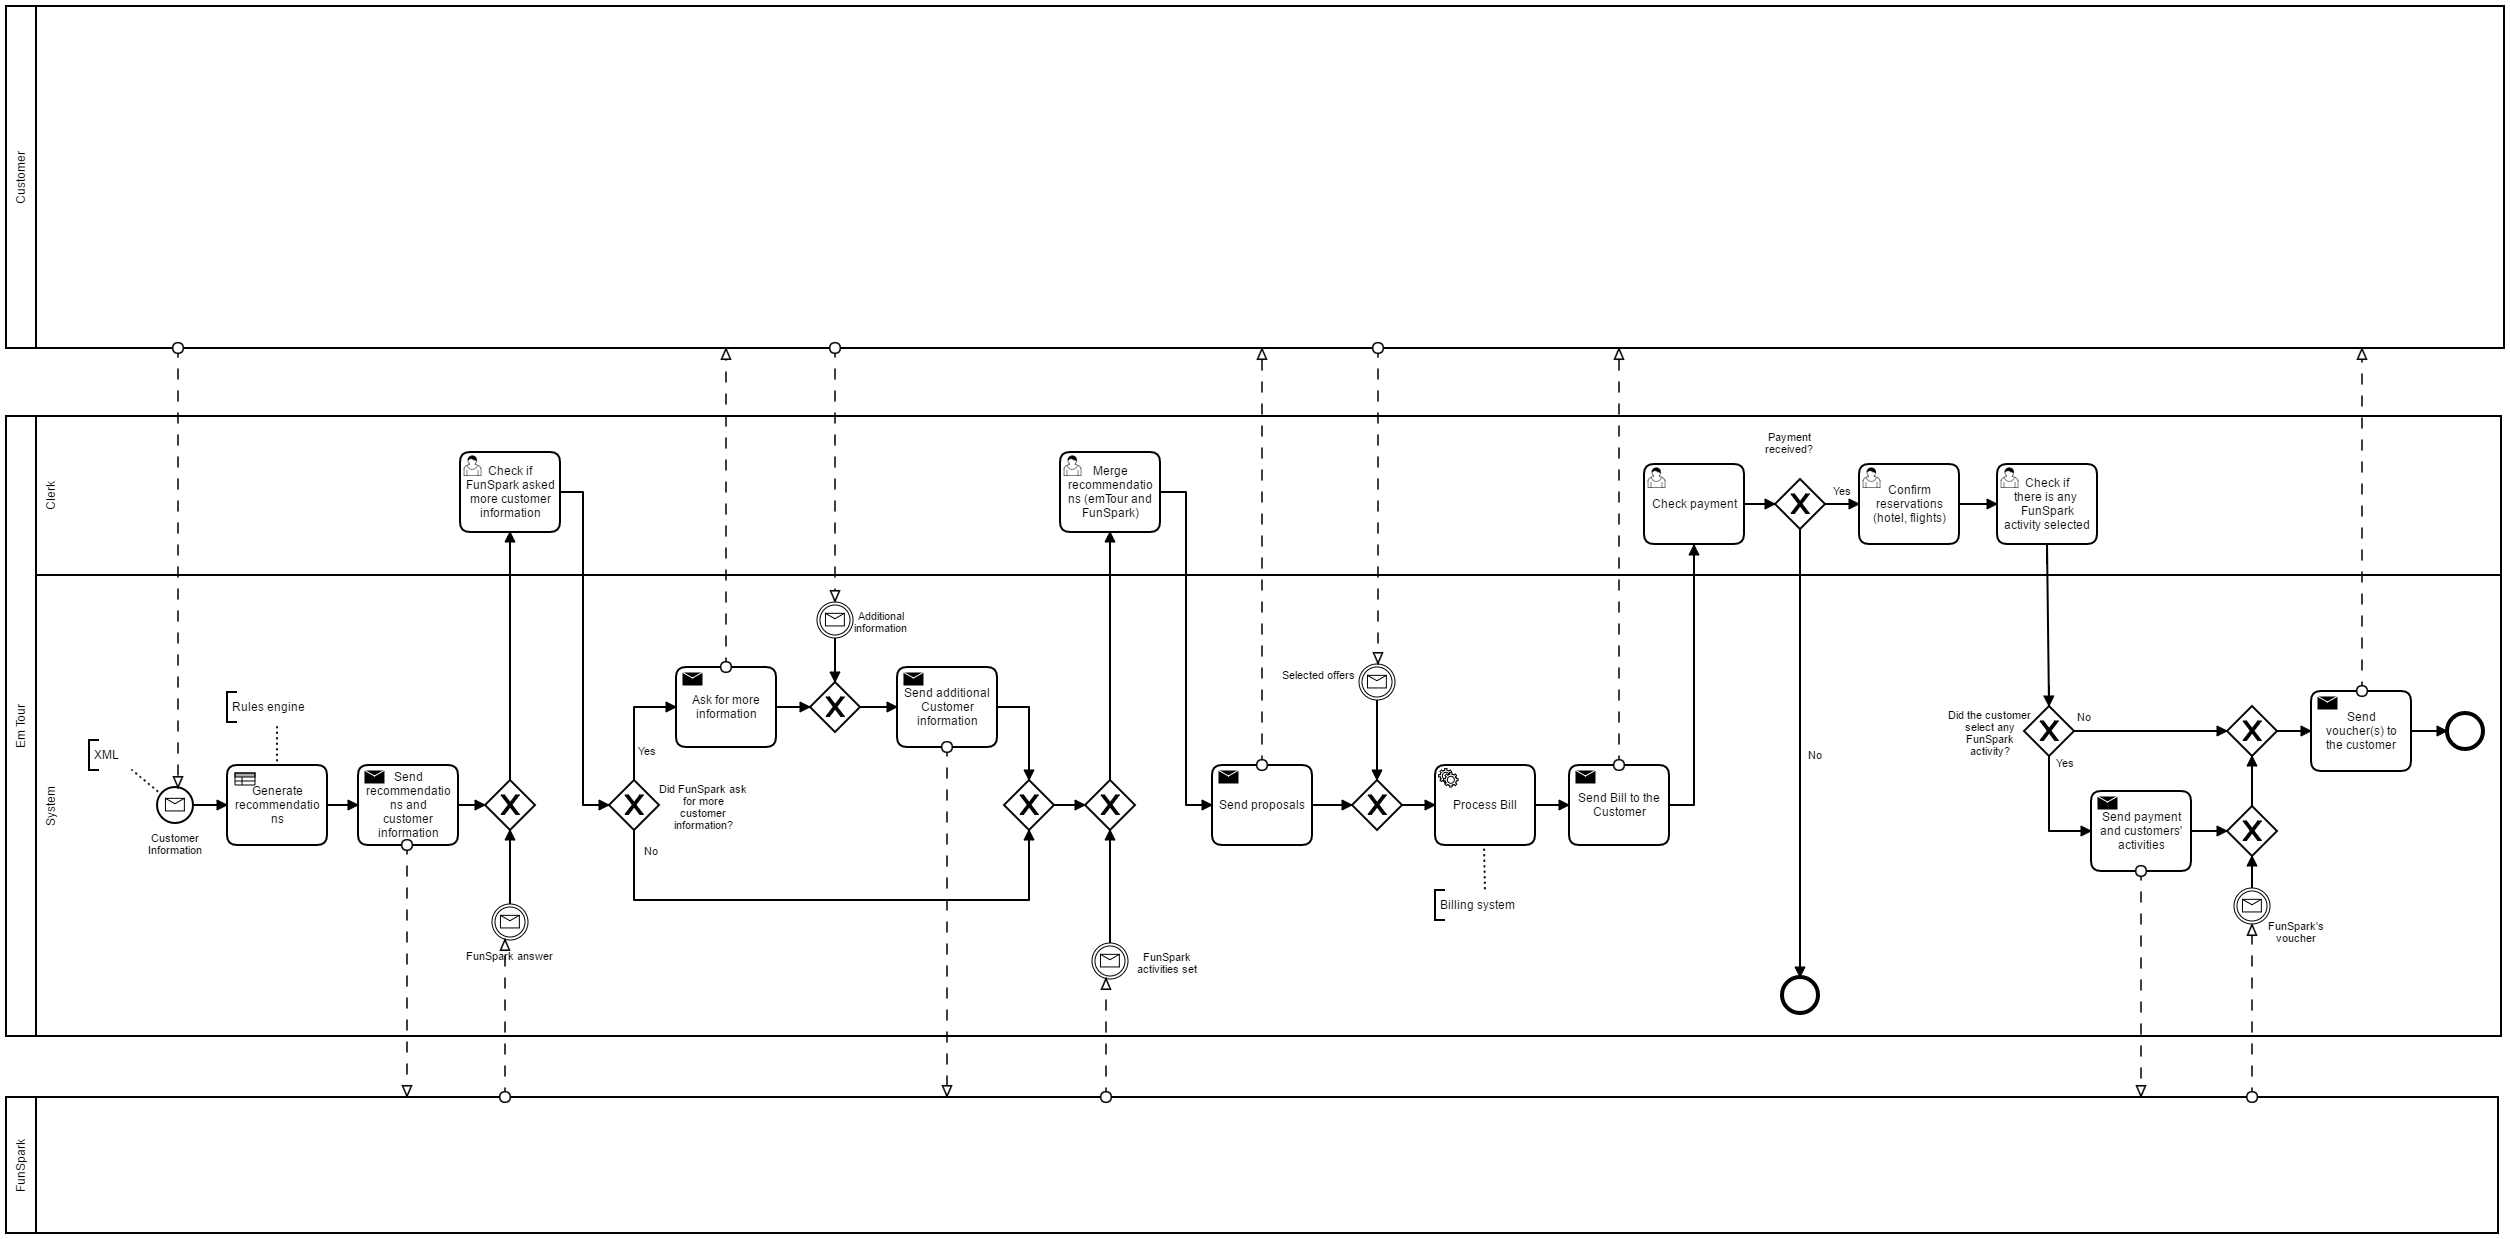
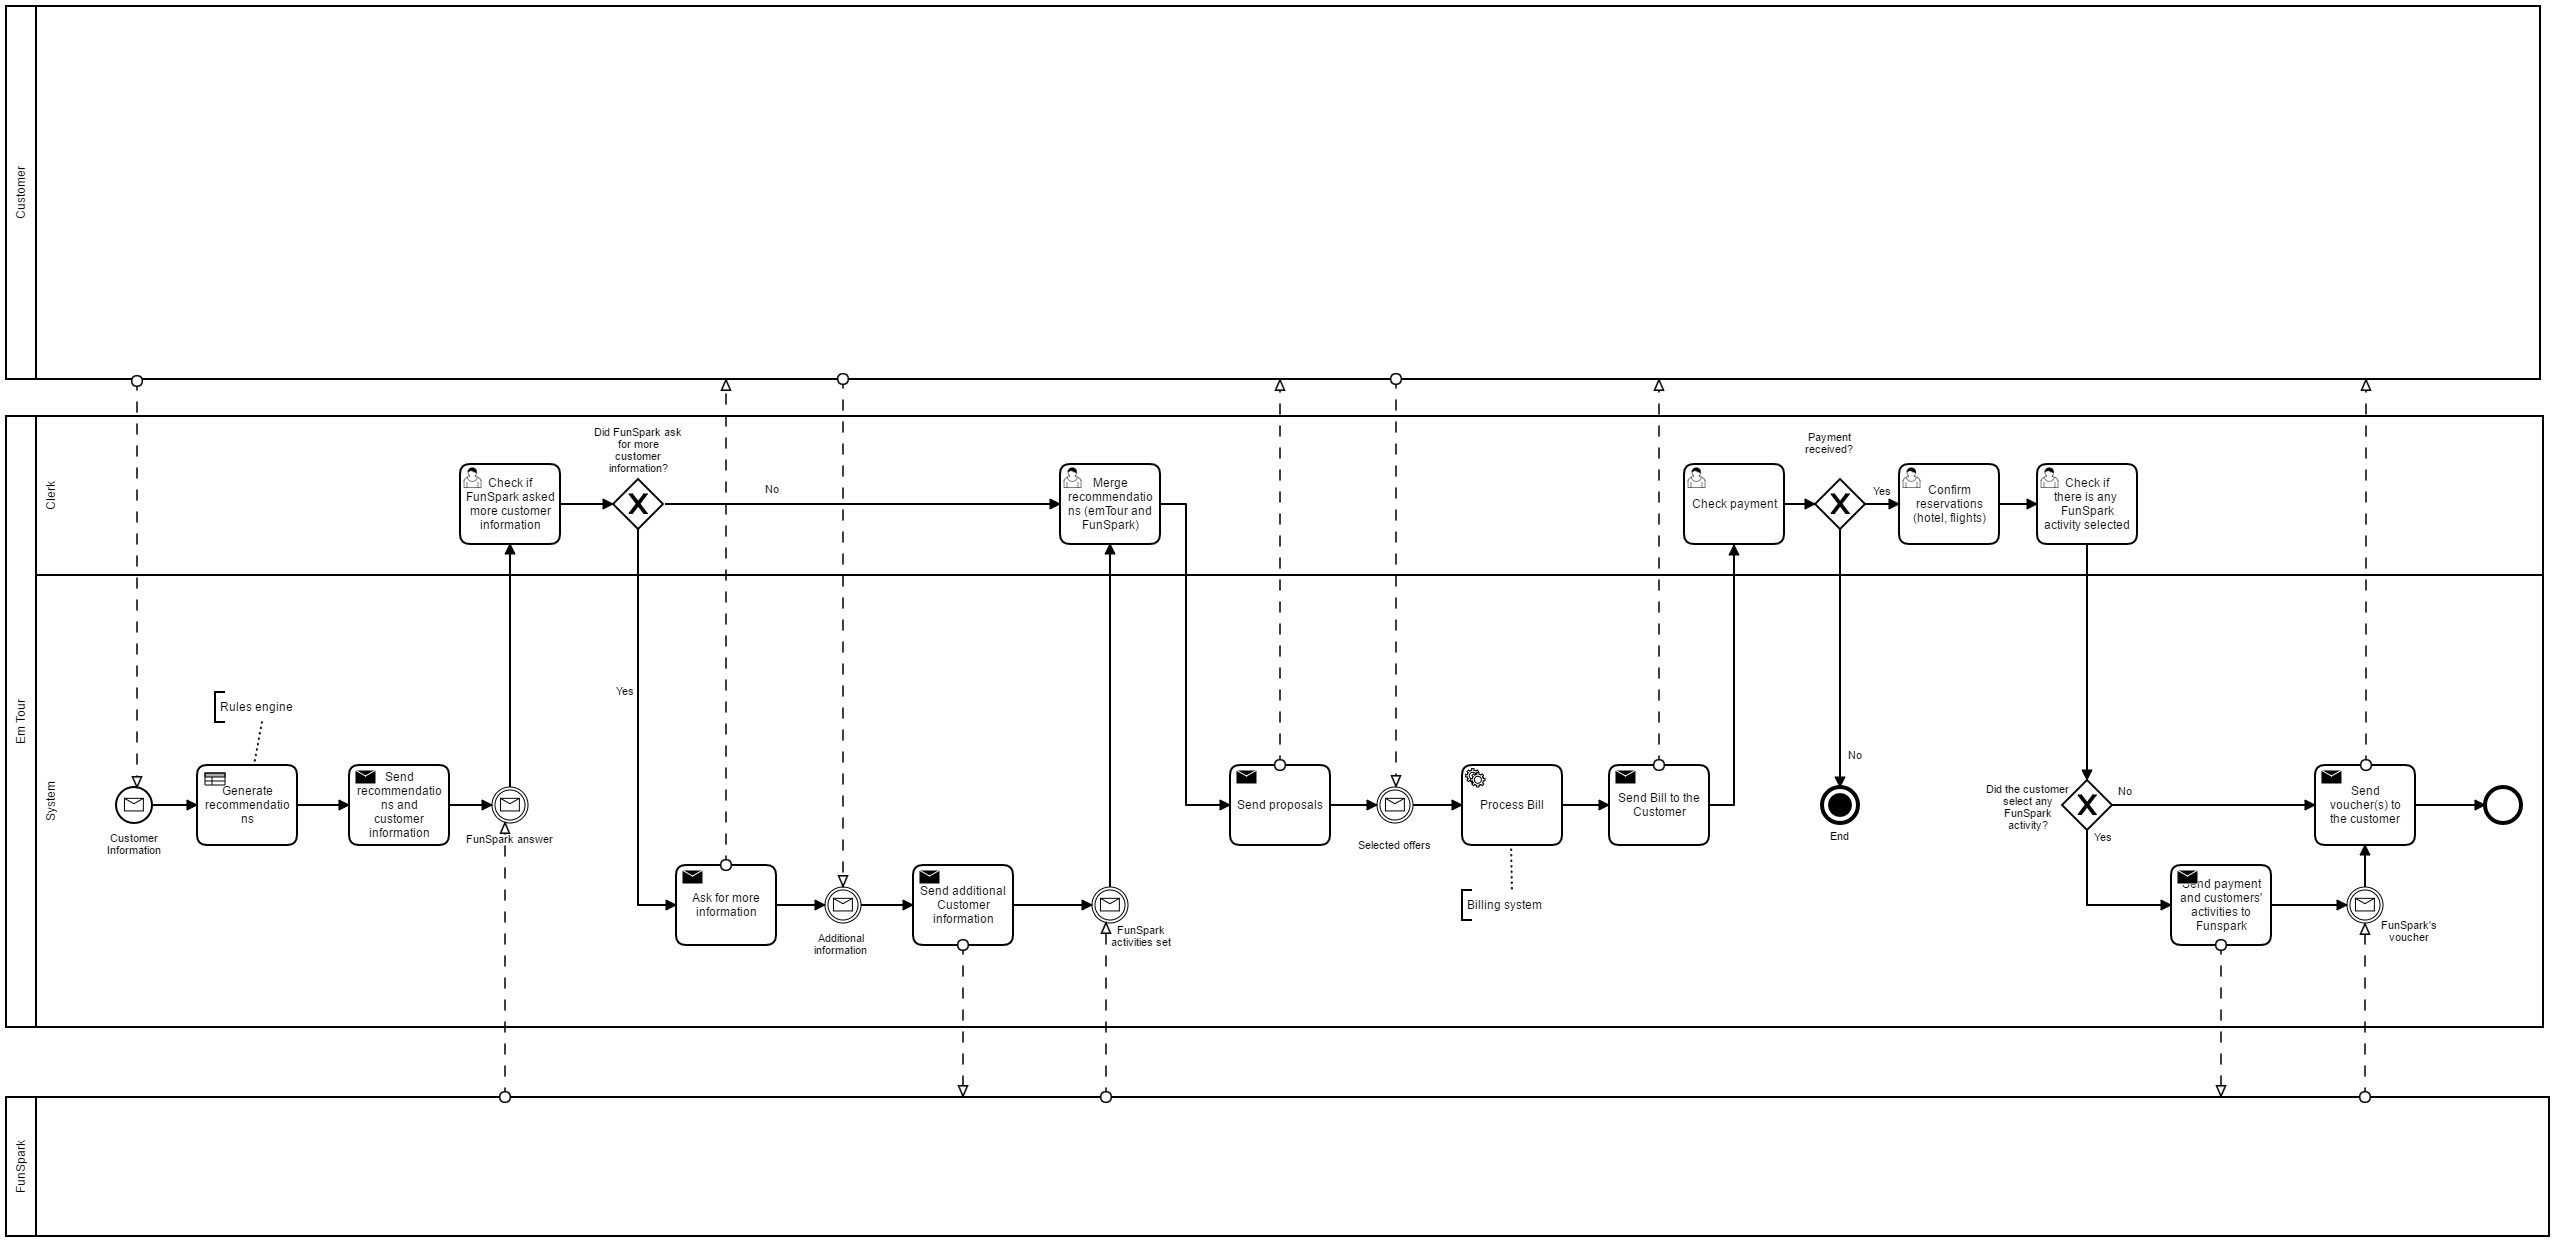
messages done, waiting for the others finish their tasks

diff --git a/emtour/src/main/java/de/wwu/wfm/group12/emtour/SendPayment.java b/emtour/src/main/java/de/wwu/wfm/group12/emtour/SendPayment.java
@@ -1,5 +1,8 @@
 package de.wwu.wfm.group12.emtour;
 
+import java.io.BufferedReader;
+import java.io.ByteArrayInputStream;
+import java.io.InputStreamReader;
 import java.util.logging.Logger;
 
 import javax.ejb.Stateless;
@@ -7,13 +10,51 @@ import javax.inject.Named;
 
 import org.camunda.bpm.engine.delegate.DelegateExecution;
 import org.camunda.bpm.engine.delegate.JavaDelegate;
+import org.jboss.resteasy.client.ClientRequest;
+import org.jboss.resteasy.client.ClientResponse;
 
 public class SendPayment implements JavaDelegate {
-	 private final static Logger LOGGER = Logger.getLogger("RECOMMENDATIONS-REQUESTS");
+	 private final static Logger LOGGER = Logger.getLogger("SEND-PAYMENT");
 
 	  public void execute(DelegateExecution execution) throws Exception {
 	    LOGGER.info("Send Payment '" 
-	    		+ execution.getVariable("name") + "' age: '"
-	    		+ execution.getVariable("age") + "'...");
+	    		+ execution.getVariable("name") + "' customerId: '"
+	    		+ execution.getVariable("customerId") + "'...");
+	    
+	    String input;
+		ClientRequest request = new ClientRequest("http://192.168.1.30:8080/engine-rest/message");
+		request.accept("application/json");
+		
+		input = "{\"messageName\":\"payment_confirmation\","
+				+ "\"correlationKeys\":{ "
+						+ "\"customerId\":{\"value\":\""+execution.getVariable("customerId")+"\", \"type\": \"String\"}"											
+					+ "},"
+				+ "\"processVariables\":{ "
+						+ "\"payment_status\":{\"value\":\""+execution.getVariable("payment_status")+"\", \"type\": \"Boolean\"},"
+						+ "\"funspark_banktransfer_code\":{\"value\":\""+execution.getVariable("funspark_banktransfer_code")+"\", \"type\": \"String\"},"
+						+ "\"funspark_selected_activities\":{\"value\":\""+execution.getVariable("funspark_selected_activities")+"\", \"type\": \"String\"}"
+					+ "}"
+				+"}";
+		
+		System.out.println(input);
+		request.body("application/json", input);
+
+		ClientResponse<String> response = request.post(String.class);
+
+		if (response.getStatus() != 204) {
+			
+			BufferedReader br = new BufferedReader(new InputStreamReader(
+					new ByteArrayInputStream(response.getEntity().getBytes())));	
+			
+			String output;
+			System.out.println("Output from Server. Status: ");
+			while ((output = br.readLine()) != null) {
+				System.out.println(output);
+			}
+			throw new RuntimeException("Failed : HTTP error code : " + response.getStatus());
+		}
+		else System.out.println("Output from Server. Status: "+response.getStatus());		
+  
+	    
 	  }
 }

diff --git a/emtour/src/main/java/de/wwu/wfm/group12/emtour/SendCustomerInfo.java b/emtour/src/main/java/de/wwu/wfm/group12/emtour/SendCustomerInfo.java
@@ -1,5 +1,8 @@
 package de.wwu.wfm.group12.emtour;
 
+import java.io.BufferedReader;
+import java.io.ByteArrayInputStream;
+import java.io.InputStreamReader;
 import java.util.logging.Logger;
 
 import javax.ejb.Stateless;
@@ -7,13 +10,52 @@ import javax.inject.Named;
 
 import org.camunda.bpm.engine.delegate.DelegateExecution;
 import org.camunda.bpm.engine.delegate.JavaDelegate;
+import org.jboss.resteasy.client.ClientRequest;
+import org.jboss.resteasy.client.ClientResponse;
 
 public class SendCustomerInfo implements JavaDelegate{
-	 private final static Logger LOGGER = Logger.getLogger("RECOMMENDATIONS-REQUESTS");
+	 private final static Logger LOGGER = Logger.getLogger("SEND-CUSTOMER-INFO");
 
 	  public void execute(DelegateExecution execution) throws Exception {
 	    LOGGER.info("Send Customer Information '" 
-	    		+ execution.getVariable("name") + "' age: '"
-	    		+ execution.getVariable("age") + "'...");
+	    		+ execution.getVariable("name") + "' customerId: '"
+	    		+ execution.getVariable("customerId") + "'...");
+		
+	    
+	    String input;
+		ClientRequest request = new ClientRequest("http://192.168.1.30:8080/engine-rest/message");
+		request.accept("application/json");
+		
+		input = "{\"messageName\":\"more_info_result\","
+				+ "\"correlationKeys\":{ "
+						+ "\"customerId\":{\"value\":\""+execution.getVariable("customerId")+"\", \"type\": \"String\"}"											
+					+ "},"
+				+ "\"processVariables\":{ "
+						+ "\"more_info\":{\"value\":\""+execution.getVariable("more_info")+"\", \"type\": \"Boolean\"},"
+						+ "\"customer_info_updated\":{\"value\":\""+execution.getVariable("customer_info_updated")+"\", \"type\": \"String\"}"						
+					+ "}"
+				+"}";
+		
+		System.out.println(input);
+		request.body("application/json", input);
+
+		ClientResponse<String> response = request.post(String.class);
+
+		if (response.getStatus() != 204) {
+			
+			BufferedReader br = new BufferedReader(new InputStreamReader(
+					new ByteArrayInputStream(response.getEntity().getBytes())));	
+			
+			String output;
+			System.out.println("Output from Server. Status: ");
+			while ((output = br.readLine()) != null) {
+				System.out.println(output);
+			}
+			throw new RuntimeException("Failed : HTTP error code : " + response.getStatus());
+		}
+		else System.out.println("Output from Server. Status: "+response.getStatus());		
+  
+	    
+	    
 	  }
 }

diff --git a/emtour/src/main/java/de/wwu/wfm/group12/emtour/SendRecommendation.java b/emtour/src/main/java/de/wwu/wfm/group12/emtour/SendRecommendation.java
@@ -13,17 +13,17 @@ import org.jboss.resteasy.client.ClientResponse;
 
 
 public class SendRecommendation implements JavaDelegate {
-	private final static Logger LOGGER = Logger.getLogger("RECOMMENDATIONS-REQUESTS");
+	private final static Logger LOGGER = Logger.getLogger("SEND-RECOMMENDATIONS");
 
 	public void execute(DelegateExecution execution) throws Exception {
-		LOGGER.info("Send Recommendations '" + execution.getVariable("name") + "' country: '"
-				+ execution.getVariable("country") + "'...");
+		LOGGER.info("Send Recommendations '" + execution.getVariable("name") + "' desired City: '"
+				+ execution.getVariable("desiredCity") + "'...");
 
 		// create db record with customer info and return customerID
 		CustomerDatabase cdb = new CustomerDatabase();
 		cdb.createCustomerDbRecord(execution);
 		String customerId = cdb.lastCustomerId();
-		
+		execution.setVariable("customerId", customerId);
 		
 		// RESTeasy Jboss API to send recommendations to Funspark
 				
@@ -32,9 +32,11 @@ public class SendRecommendation implements JavaDelegate {
 		request.accept("application/json");
 		
 		input = "{\"variables\":{ "
-				+ "\"name\":{\"value\":\""+execution.getVariable("name")+"\", \"type\": \"String\"},"				
-				+ "\"desiredCity\":{\"value\":\""+execution.getVariable("desiredCity")+"\", \"type\": \"String\"}},"
-				+ "\"businessKey\":\""+execution.getId()+"\"}";
+					+ "\"customerId\":{\"value\":\""+customerId+"\", \"type\": \"String\"},"
+					+ "\"name\":{\"value\":\""+execution.getVariable("name")+"\", \"type\": \"String\"},"				
+					+ "\"desiredCity\":{\"value\":\""+execution.getVariable("desiredCity")+"\", \"type\": \"String\"}"
+					+"}"
+				+ "}";
 		
 		System.out.println(input);
 		request.body("application/json", input);

diff --git a/emtour/src/main/java/de/wwu/wfm/group12/emtour/ProcessBill.java b/emtour/src/main/java/de/wwu/wfm/group12/emtour/ProcessBill.java
@@ -7,10 +7,10 @@ import org.camunda.bpm.engine.delegate.JavaDelegate;
 
 public class ProcessBill implements JavaDelegate {
 	
-	 private final static Logger LOGGER = Logger.getLogger("RECOMMENDATIONS-REQUESTS");
+	 private final static Logger LOGGER = Logger.getLogger("PROCESS-BILL");
 
 	  public void execute(DelegateExecution execution) throws Exception {
-	    	    
+	   /* 	    
 	   int activitySetPrice = 100;
 	   int bill;
 	   
@@ -23,11 +23,12 @@ public class ProcessBill implements JavaDelegate {
 	// Generate bill depending on client's budget & activity set price provided from FunSpark
 	   bill = budget * adult + (budget/2) * children + activitySetPrice;  
 	   
-	   System.out.println("Total Bill is: " + bill + " Persons: " + String.valueOf(adult +children) + " Country: " + execution.getVariable("country"));
-	   
-	  /* LOGGER.info("Total Bill is:'" 
-	    		+ bill + "' Country: '"
-	    		+ execution.getVariable("country") + "'");*/
+	   System.out.println("Total Bill is: " + bill + " Persons: " + String.valueOf(adult +children) + " City: " + execution.getVariable("desiredCity"));
+	   */
+	  
+	   LOGGER.info("Offers: '" 
+	    		+ execution.getVariable("offers") + "' City: '"
+	    		+ execution.getVariable("desiredCity") + "'");
 	   
 	  }
 }

diff --git a/emtour/src/main/java/de/wwu/wfm/group12/emtour/SendVoucher.java b/emtour/src/main/java/de/wwu/wfm/group12/emtour/SendVoucher.java
@@ -9,12 +9,15 @@ import org.camunda.bpm.engine.delegate.DelegateExecution;
 import org.camunda.bpm.engine.delegate.JavaDelegate;
 
 public class SendVoucher implements JavaDelegate {
-	 private final static Logger LOGGER = Logger.getLogger("RECOMMENDATIONS-REQUESTS");
+	 private final static Logger LOGGER = Logger.getLogger("SEND-VOUCHER");
 
 	  public void execute(DelegateExecution execution) throws Exception {
-	    LOGGER.info("Send Voucher '" 
-	    		+ execution.getVariable("name") + "' age: '"
-	    		+ execution.getVariable("age")  
-	    		+ "END ...");
+	  
+	  //implement send voucher mail
+	    
+	  LOGGER.info("Voucher Sent '" 
+		    		+ execution.getVariable("name") + "' customerId: '"
+		    		+ execution.getVariable("customerId")  
+		    		+ "END ...");	    
 	  }
 }

diff --git a/emtour/src/main/java/de/wwu/wfm/group12/emtour/AskInformation.java b/emtour/src/main/java/de/wwu/wfm/group12/emtour/AskInformation.java
@@ -13,7 +13,11 @@ public class AskInformation implements JavaDelegate {
 
 	  public void execute(DelegateExecution execution) throws Exception {
 	    LOGGER.info("Ask for more information '" 
-	    		+ execution.getVariable("name") + "' age: '"
-	    		+ execution.getVariable("age") + "'...");
+	    		+ execution.getVariable("name") + "' customerId: '"
+	    		+ execution.getVariable("customerId") + "'...");
+	  execution.setVariable("customer_info_updated", "Please send more info");  
+	  
+	  //implement email sending, add customerInfoUpdated variable
+	    
 	  }
 }

diff --git a/emtour/src/main/java/de/wwu/wfm/group12/emtour/SendProposals.java b/emtour/src/main/java/de/wwu/wfm/group12/emtour/SendProposals.java
@@ -12,7 +12,7 @@ public class SendProposals implements JavaDelegate {
 	public void execute(DelegateExecution execution) throws Exception {
 		LOGGER.info("Send Proposals to '" + execution.getVariable("name") + "' email: '"
 				+ execution.getVariable("email") + "'...");
-
+/*
 		// ajimenez
 
 		// input variables
@@ -44,7 +44,7 @@ public class SendProposals implements JavaDelegate {
 		String email = (execution.getVariable("email")).toString();
 
 		SendEmail.messageProposal(name, lastName, email, newDesiredCity);
-
+*/
 	}
 
 }
